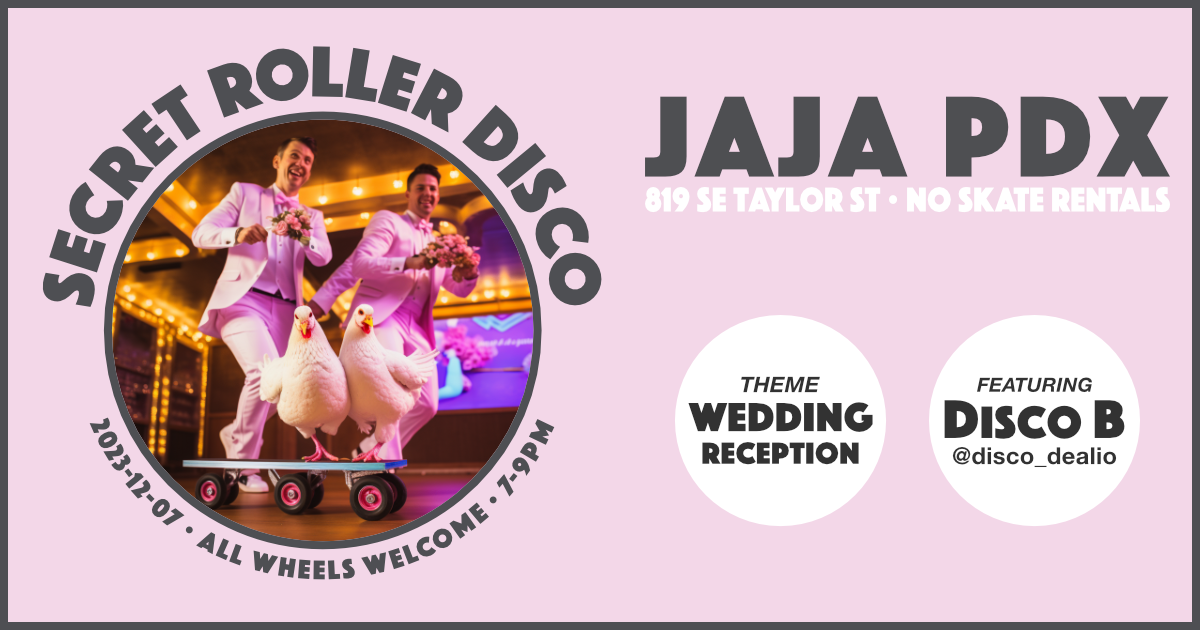
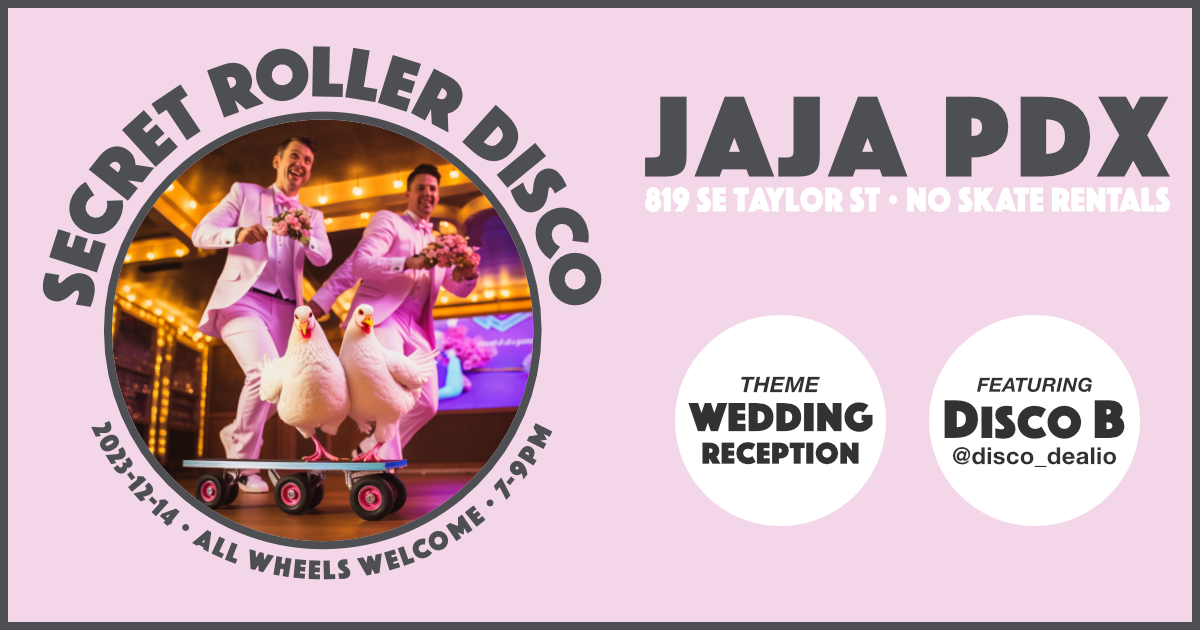
goofed the meta image date, added time stamps versions to images for cache clearing

diff --git a/_layouts/default.html b/_layouts/default.html
@@ -17,9 +17,9 @@
   <meta property="og:description" content="{{ site.description }}">
   <meta property="og:image" content="
     {% if page.image %}
-      {{ site.url }}{{ page.image }}
+      {{ site.url }}{{ page.image }}?v={{ site.time | date: '%s' }}
     {% else %}
-      {{ site.url }}/images/flyers/meta-{{ site.posts.first.date | date: '%F' }}.png
+      {{ site.url }}/images/flyers/meta-{{ site.posts.first.date | date: '%F' }}.png?v={{ site.time | date: '%s' }}
     {% endif %}
   ">
 
@@ -31,9 +31,9 @@
   <meta name="twitter:description" content="{{ site.description }}">
   <meta name="twitter:image" content="
     {% if page.image %}
-      {{ site.url }}{{ page.image }}
+      {{ site.url }}{{ page.image }}?v={{ site.time | date: '%s' }}
     {% else %}
-      {{ site.url }}/images/flyers/meta-{{ site.posts.first.date | date: '%F' }}.png
+      {{ site.url }}/images/flyers/meta-{{ site.posts.first.date | date: '%F' }}.png?v={{ site.time | date: '%s' }}
     {% endif %}
   ">
 

diff --git a/index.html b/index.html
@@ -10,7 +10,7 @@ layout: default
 
     <img
       class="img-responsive"
-      src="images/flyers/flyer-{{post.date | date: '%F'}}.png"
+      src="images/flyers/flyer-{{post.date | date: '%F'}}.png?v={{ site.time | date: '%s' }}"
       alt="
         Flyer for Secret Roller Disco:
         {{post.date | date: '%A, %B %-d, %Y'}}, {{post.time}}.
